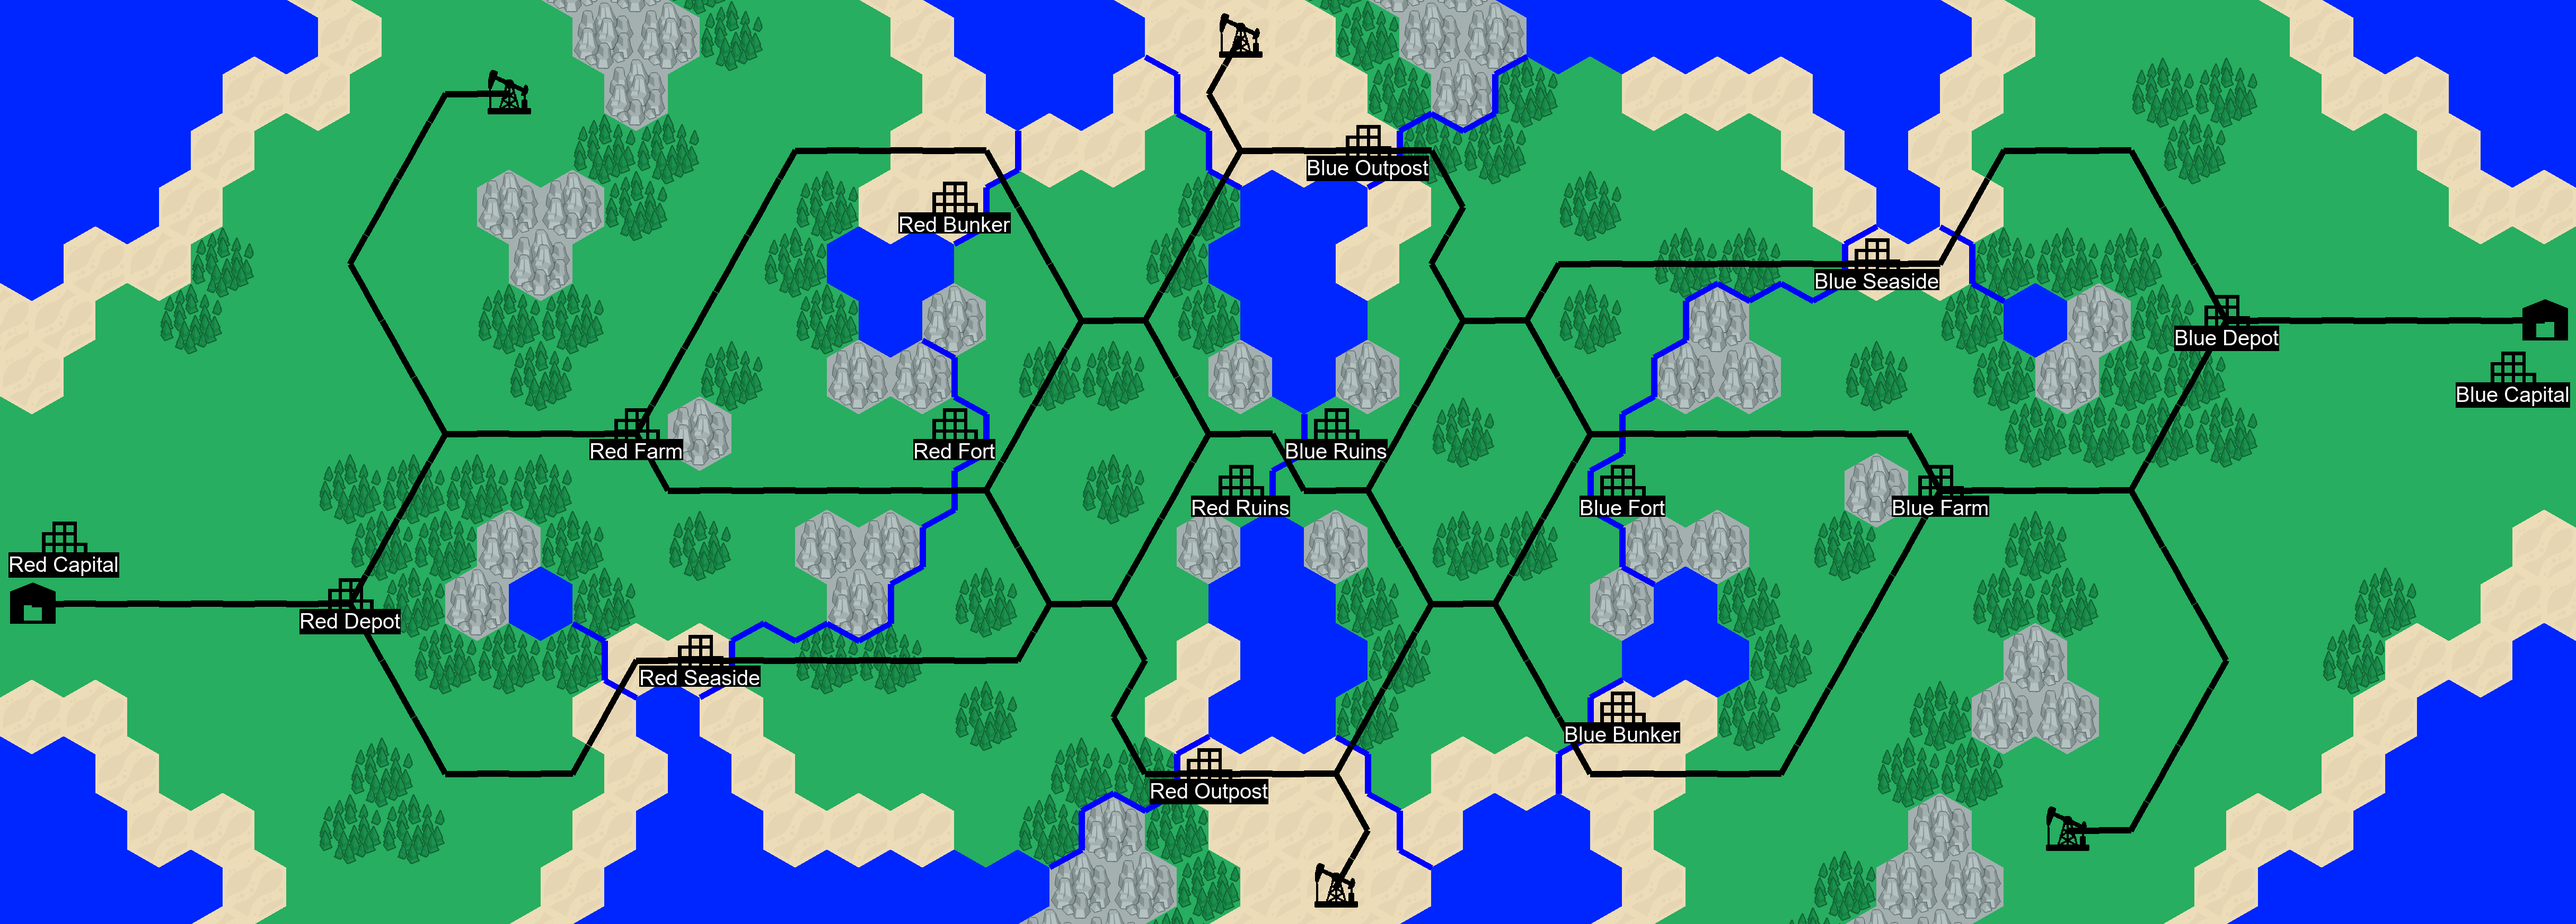
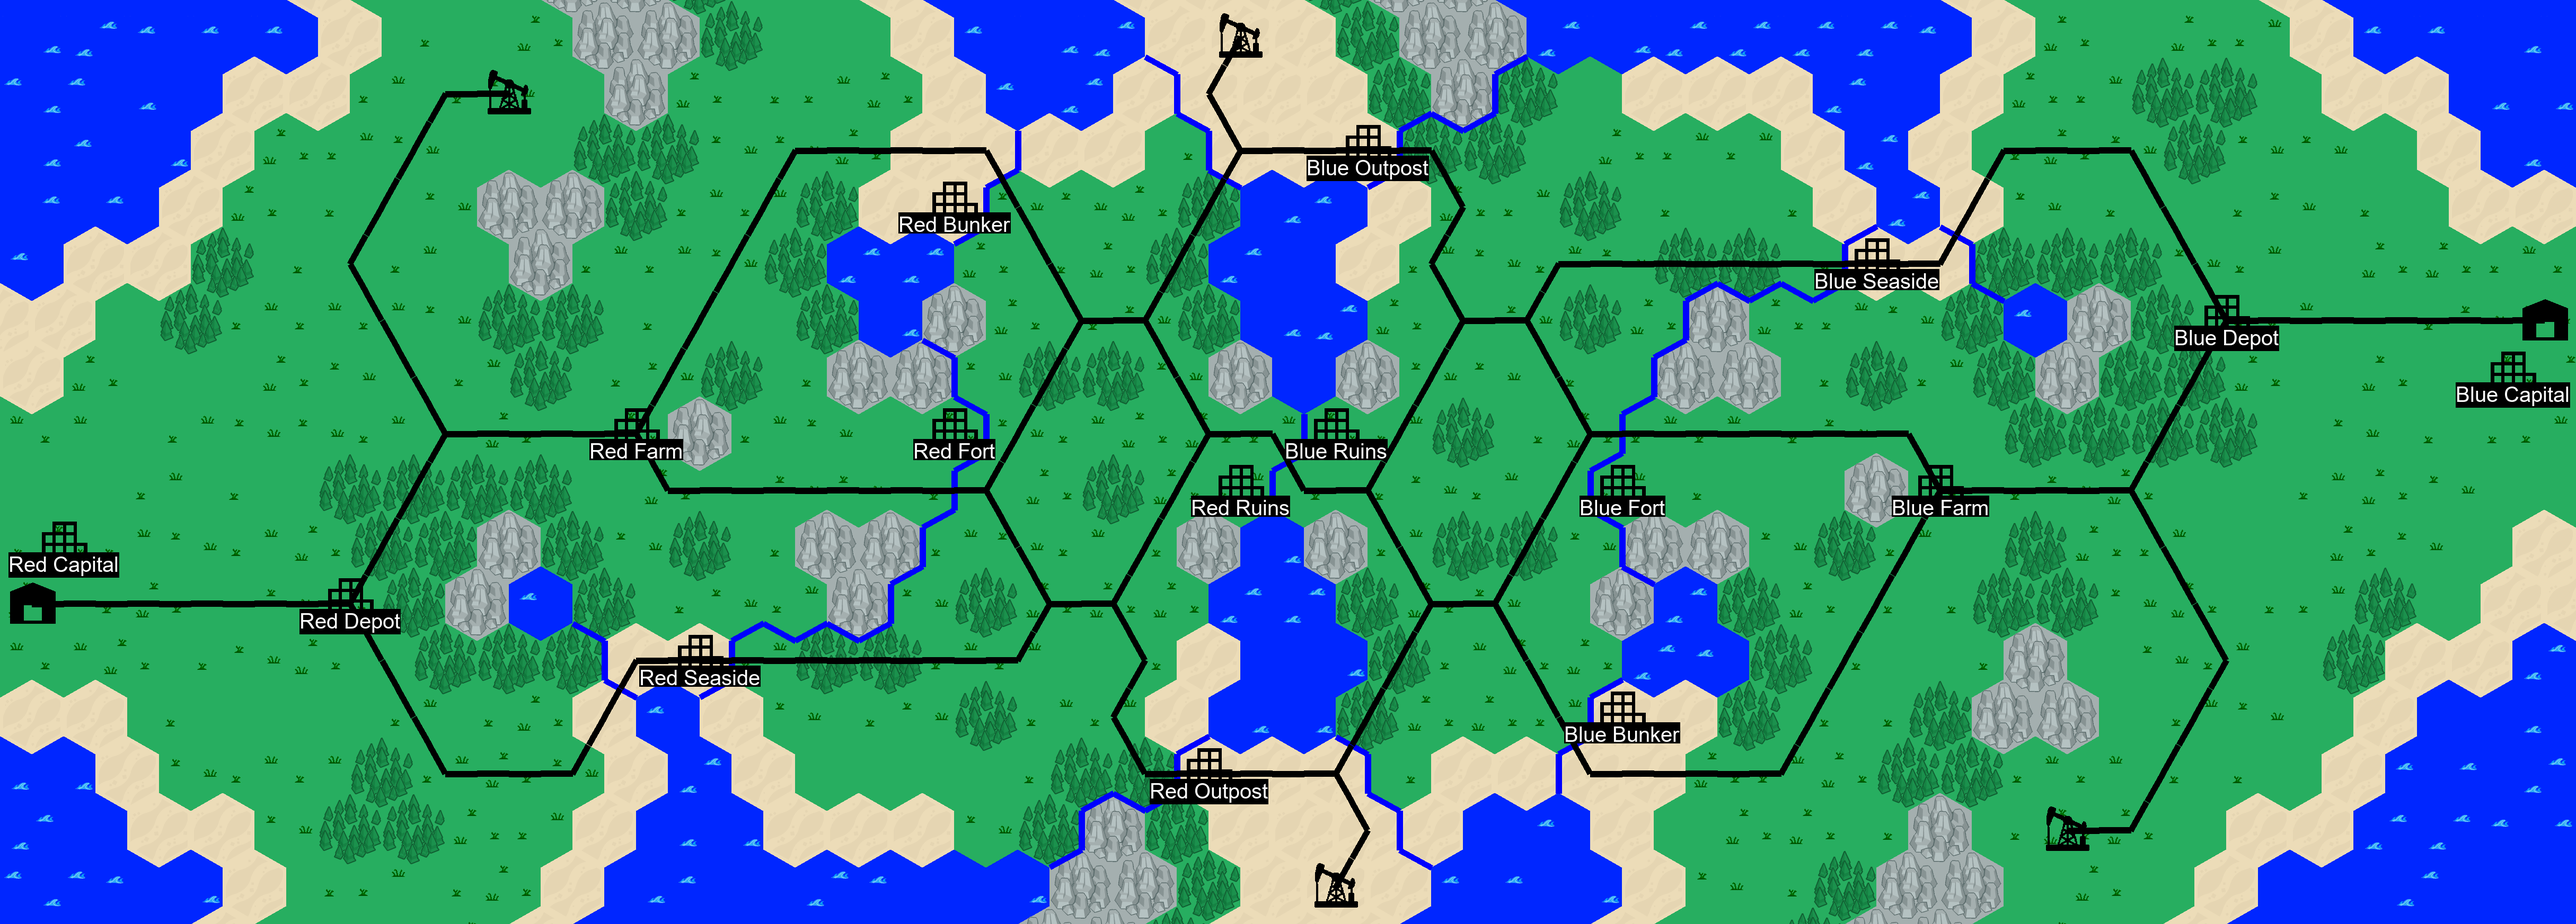
preview terrain image variations

Changed region(s): [[0.9942, 0.8665, 1.0, 0.8974], [0.9942, 0.0928, 1.0, 0.1238]]

diff --git a/resources/tsx/terrain_mountain.tsx b/resources/tsx/terrain_mountain.tsx
@@ -1,4 +1,4 @@
 <?xml version="1.0" encoding="UTF-8"?>
 <tileset version="1.4" tiledversion="1.4.3" name="terrain_mountain" tilewidth="120" tileheight="140" tilecount="1" columns="1">
- <image source="../terrain/mountain.png" width="120" height="140"/>
+ <image source="../terrain/mountain/mountain_0.png" width="120" height="140"/>
 </tileset>

diff --git a/resources/tsx/terrain_forest.tsx b/resources/tsx/terrain_forest.tsx
@@ -1,4 +1,4 @@
 <?xml version="1.0" encoding="UTF-8"?>
 <tileset version="1.4" tiledversion="1.4.3" name="terrain_forest" tilewidth="120" tileheight="140" tilecount="1" columns="1">
- <image source="../terrain/forest.png" width="120" height="140"/>
+ <image source="../terrain/forest/forest_0.png" width="120" height="140"/>
 </tileset>

diff --git a/resources/tsx/terrain_grass.tsx b/resources/tsx/terrain_grass.tsx
@@ -1,4 +1,4 @@
 <?xml version="1.0" encoding="UTF-8"?>
 <tileset version="1.4" tiledversion="1.4.3" name="terrain_grass" tilewidth="120" tileheight="140" tilecount="1" columns="1">
- <image source="../terrain/grass.png" width="120" height="140"/>
+ <image source="../terrain/grass/grass_0.png" width="120" height="140"/>
 </tileset>

diff --git a/resources/tsx/terrain_water.tsx b/resources/tsx/terrain_water.tsx
@@ -1,4 +1,4 @@
 <?xml version="1.0" encoding="UTF-8"?>
 <tileset version="1.4" tiledversion="1.4.3" name="terrain_water" tilewidth="120" tileheight="140" tilecount="1" columns="1">
- <image source="../terrain/water.png" width="120" height="140"/>
+ <image source="../terrain/water/water_0.png" width="120" height="140"/>
 </tileset>

diff --git a/resources/tsx/terrain_sand.tsx b/resources/tsx/terrain_sand.tsx
@@ -1,4 +1,4 @@
 <?xml version="1.0" encoding="UTF-8"?>
 <tileset version="1.4" tiledversion="1.4.3" name="terrain_sand" tilewidth="120" tileheight="140" tilecount="1" columns="1">
- <image source="../terrain/sand.png" width="120" height="140"/>
+ <image source="../terrain/sand/sand_0.png" width="120" height="140"/>
 </tileset>

diff --git a/resources/tsx/terrain_snow.tsx b/resources/tsx/terrain_snow.tsx
@@ -1,4 +1,4 @@
 <?xml version="1.0" encoding="UTF-8"?>
 <tileset version="1.4" tiledversion="1.4.3" name="terrain_snow" tilewidth="120" tileheight="140" tilecount="1" columns="1">
- <image source="../terrain/snow.png" width="120" height="140"/>
+ <image source="../terrain/snow/snow_0.png" width="120" height="140"/>
 </tileset>

diff --git a/resources/tsx/terrain_mud.tsx b/resources/tsx/terrain_mud.tsx
@@ -1,4 +1,4 @@
 <?xml version="1.0" encoding="UTF-8"?>
 <tileset version="1.4" tiledversion="1.4.3" name="terrain_mud" tilewidth="120" tileheight="140" tilecount="1" columns="1">
- <image source="../terrain/mud.png" width="120" height="140"/>
+ <image source="../terrain/mud/mud_0.png" width="120" height="140"/>
 </tileset>
